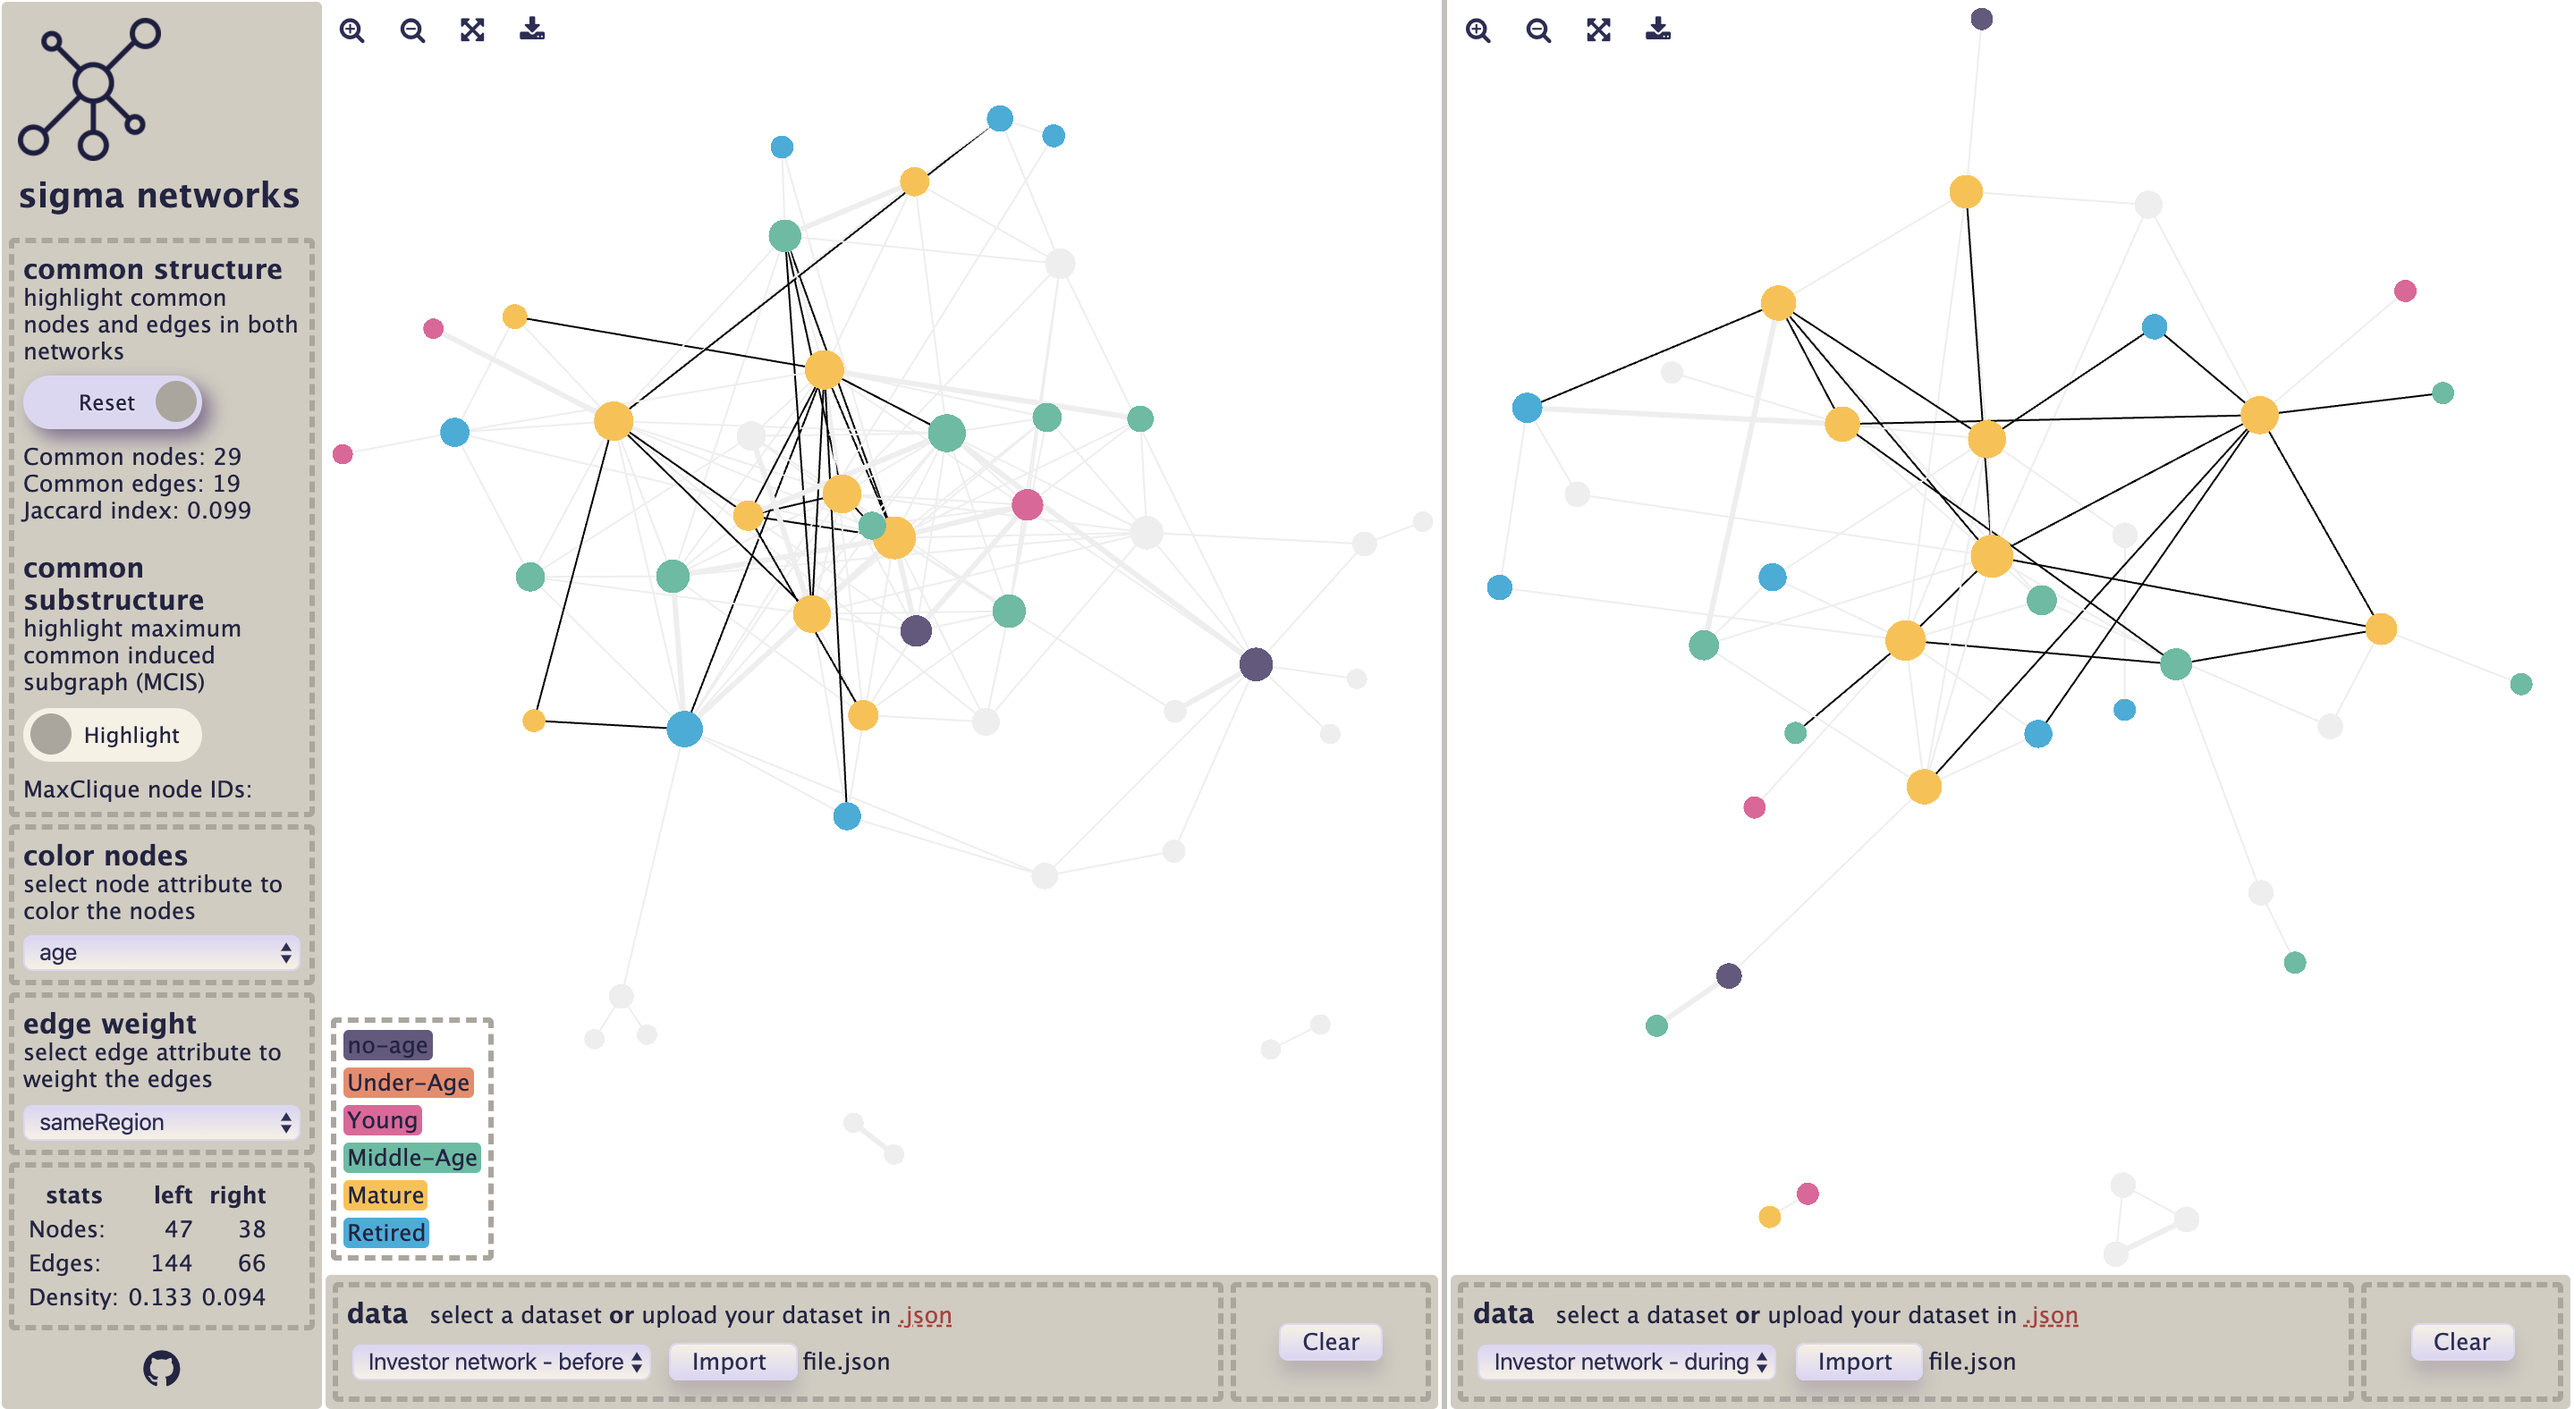
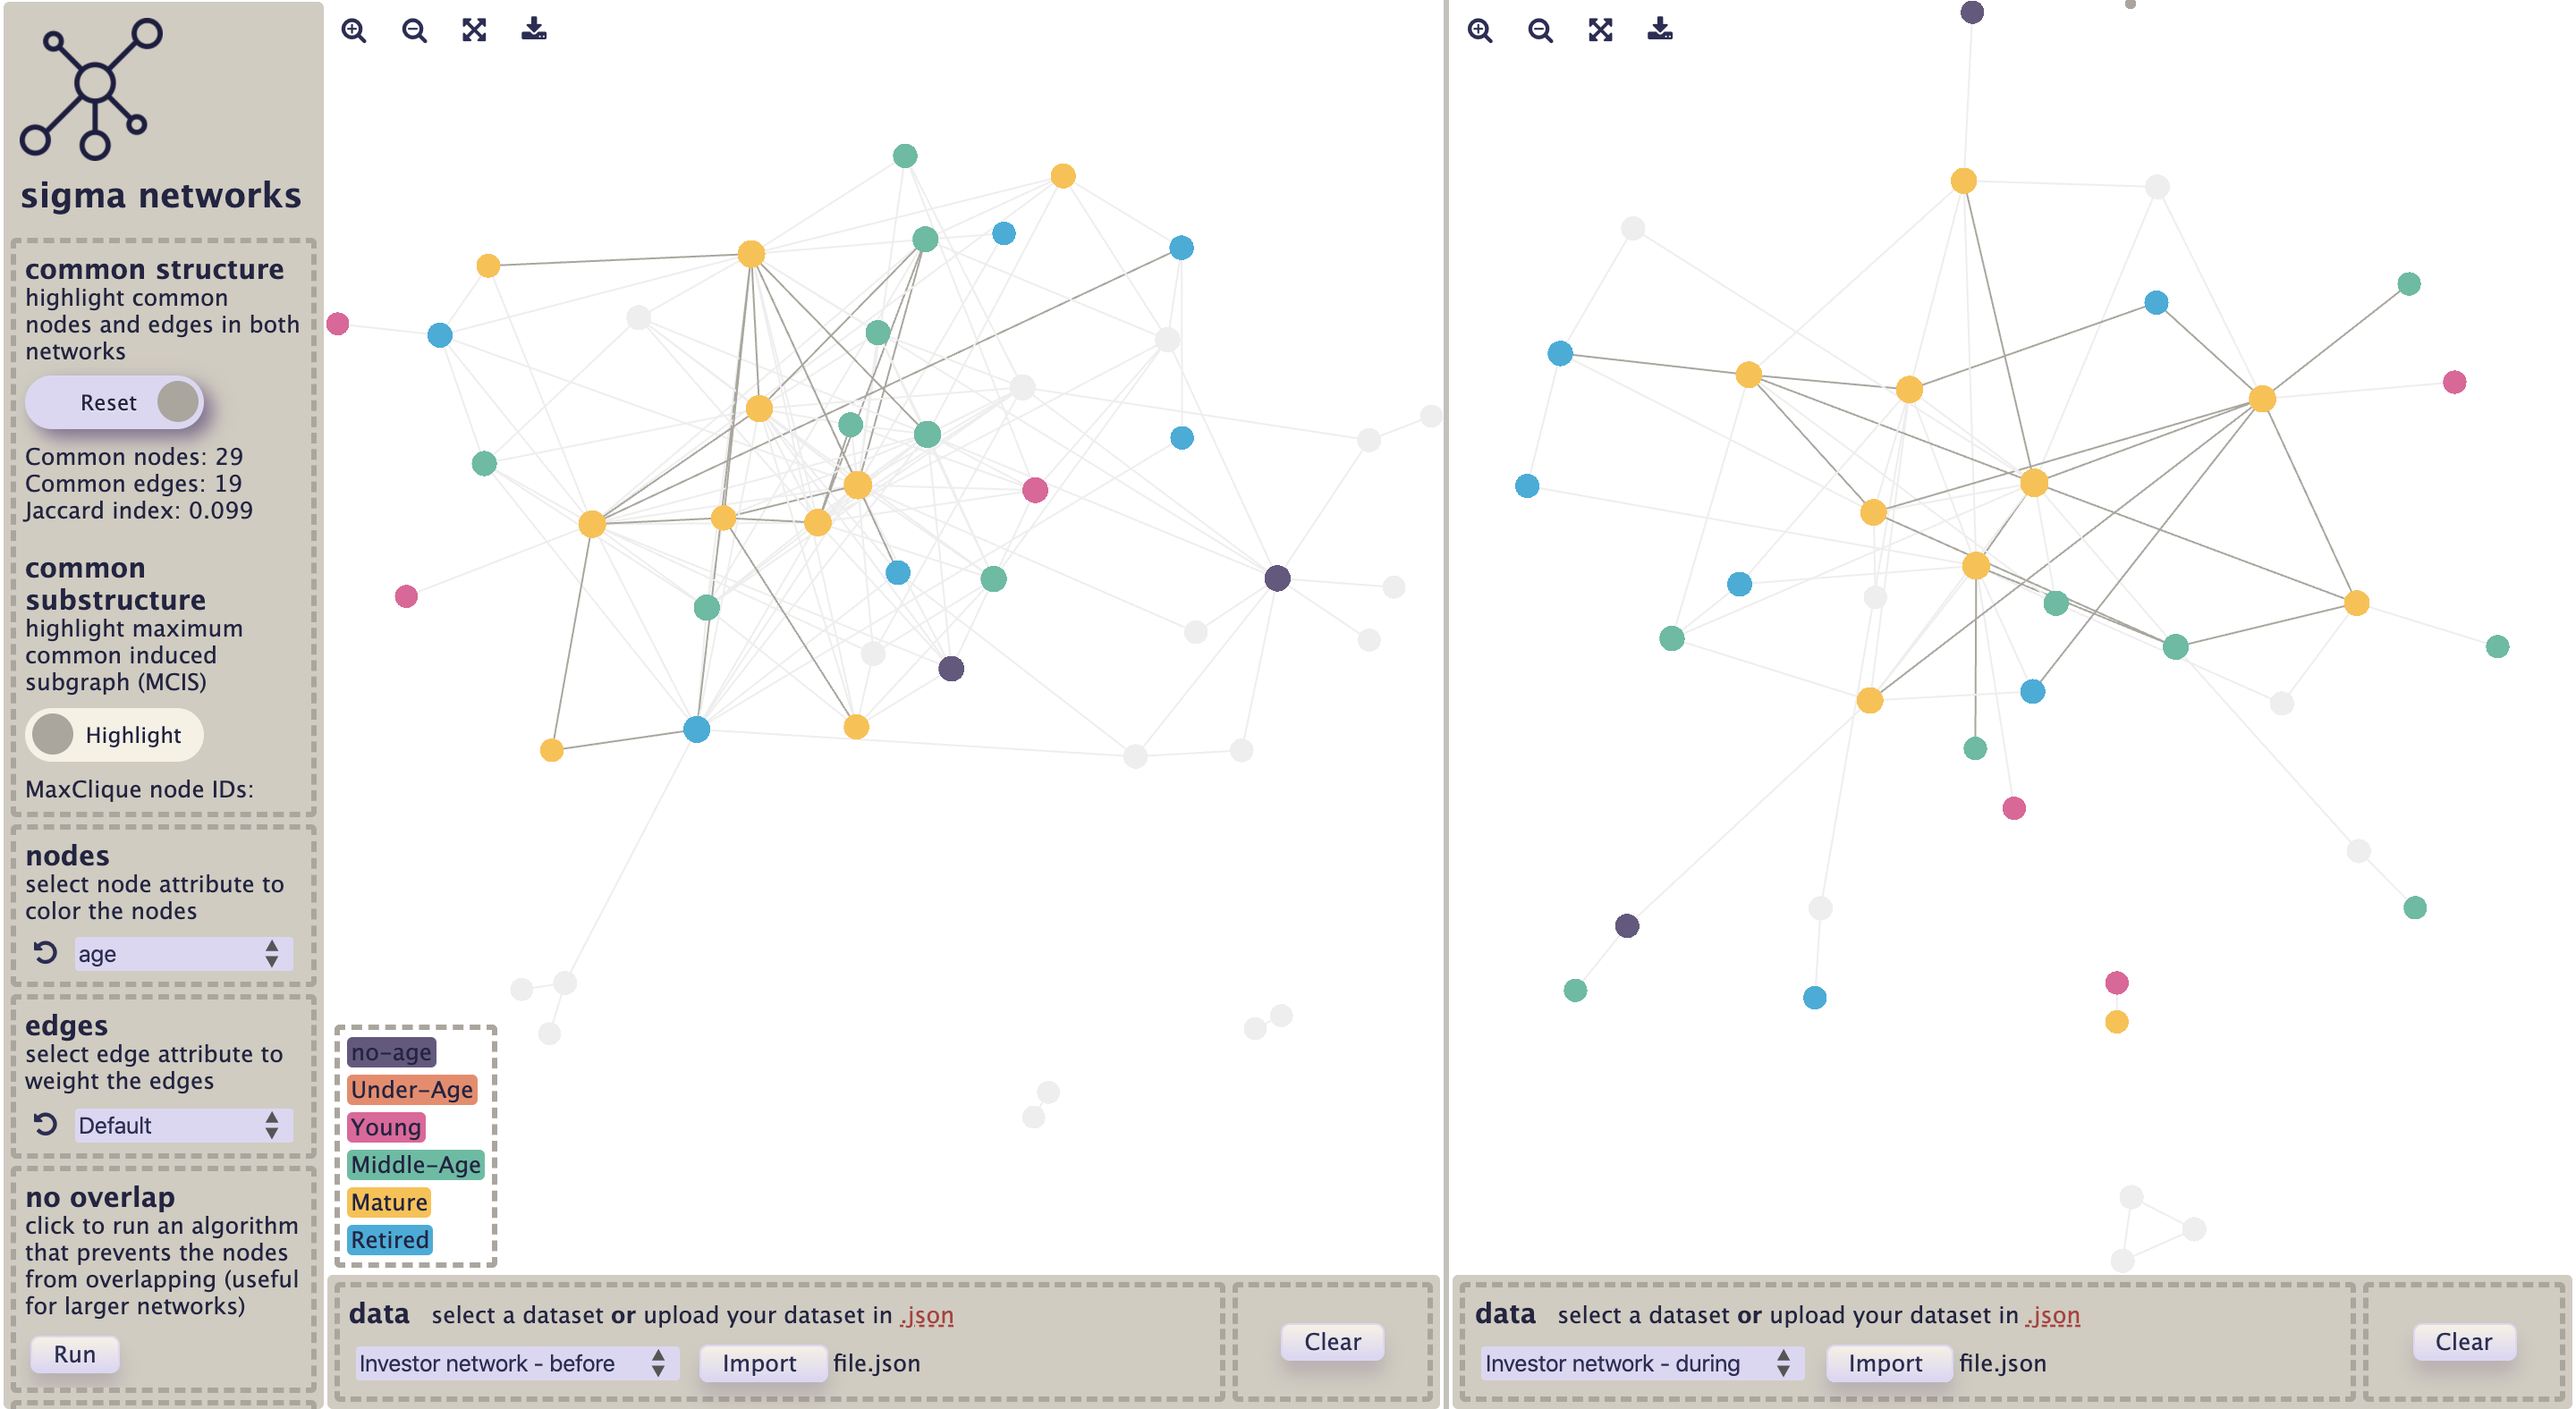
readme and preview

diff --git a/README.md b/README.md
@@ -11,19 +11,20 @@ You can try and see how it works with the datasets we have in the selection: *In
 1. Go to [sigma-networks.herokuapp.com](https://sigma-networks.herokuapp.com/) (loading the page may take a while)
 2. Select a dataset on the left and right side or upload your datasets in .json format. To use your dataset:
    - See the [.json template](https://github.com/schatt89/sigmaNetworks/blob/master/public/data/template.json) 
-   - See the [`.ipynb` notebook](https://github.com/schatt89/sigmaNetworks/blob/master/transform_data/convert_graphml_to_json.ipynb) to learn how to convert your data to the desired .json format
+   - See the [.ipynb notebook](https://github.com/schatt89/sigmaNetworks/blob/master/transform_data/convert_graphml_to_json.ipynb) to learn how to convert your data to the desired .json format
    - Click the `Import` button to upload your file
 3. Select a node attribute to color the nodes and place the legend by dragging it
 4. Select an edge attribute to add weight to the edges
-5. See statistics
-6. Highlight the common links and nodes to see the underlying structure of the networks 
-7. Highlight the Maximum Common Induced Subgraph (MCIS) of the networks
+5. If the networks are large run no-overlap algorithm to prevent the nodes from overlapping
+6. See statistics
+7. Highlight the common links and nodes to see the underlying structure of the networks 
+8. Highlight the Maximum Common Induced Subgraph (MCIS) of the networks
 
 Some features:
 - Hover over a node to see its attributes
 - Double click on a node will display its attributes in an infobox and highlight its first-order neighbors in both networks
 - Click on an infobox to close it
-- `Reset` will cancel any highlight
+- `Reset` will cancel the highlight
 - `Clear` button will remove the network
 - You can change the size of the left and right side by dragging the separating bar
-- Use navigation icons to zoom in and out 
+- Use navigation icons to zoom in and out, and download the networks in svg
